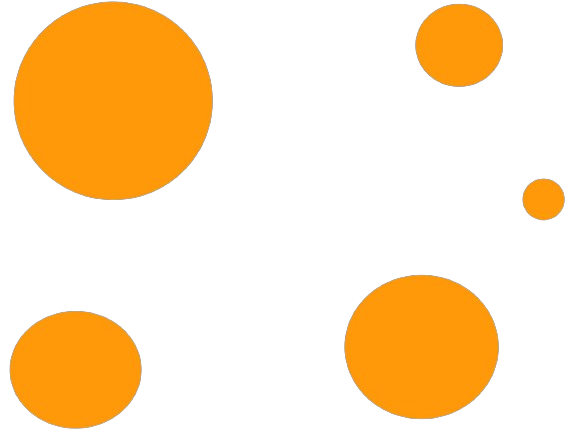
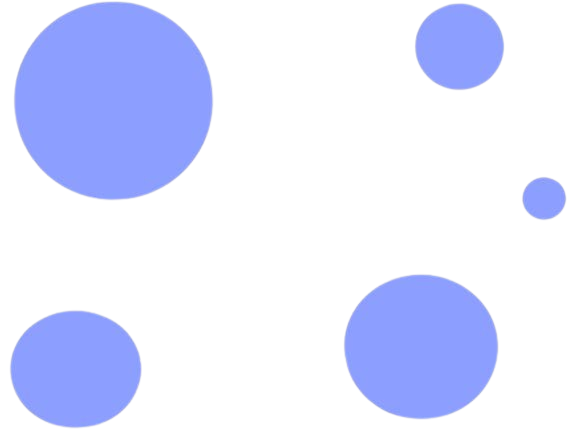
a

diff --git a/src/app/home/sobre/sobre.component.html b/src/app/home/sobre/sobre.component.html
@@ -16,7 +16,7 @@
 </section>
 
 <!-- cargos do Instituto -->
-<section class="bg-primary bg-gradient bg-opacity-25">
+<section class="cor-fundo">
     <div class="container d-flex flex-column position-relative mb-3 pb-4">
         <article class="mt-5 row">
             <div class="col-lg-5">
@@ -30,7 +30,7 @@
                 </div> -->
                 <!-- Coloquei a imagem do círculo dentro de um contêiner flexível para centralização -->
                 <h1 class="pt-5 mt-4">Acreditar Sempre!!!!</h1>
-                <p class="pt-4 text-warning">
+                <p class="pt-4 ">
                     Sales Rodrigues, também conhecido como Pastor Sales, é o visionário fundador de uma das maiores organizações de solidariedade em Novo Gama. Sua nobre iniciativa teve início em 2009 por meio do "Movimento Crack é Possível Vencer com Jesus", dedicado incansavelmente ao combate ao uso abusivo de drogas ilícitas. Esse movimento inspirador culminou na criação do Instituto REFAM, oficialmente registrado em 2012.
                     
                     Desde então, o Instituto REFAM tem desempenhado um papel crucial, impactando positivamente inúmeras famílias em toda a região do Entorno e no Distrito Federal. Sua sede, estrategicamente localizada no município de Novo Gama, serve como ponto de partida para uma jornada contínua de transformação social.
@@ -174,9 +174,7 @@
             </div>
 
             <div class="col-lg-6">
-                <div class="position-absolute z-n1 d-flex justify-content-center ms-5">
-                    <img class="img-fluid" src="./assets/img/background/quadradinhos.png" width="550" height="550" alt="">
-                </div>
+
                 <app-buttons class=""></app-buttons>
             </div>
     

diff --git a/src/app/header/header.component.html b/src/app/header/header.component.html
@@ -1,7 +1,7 @@
 <nav class="navbar navbar-expand-lg" [ngClass]="{'fixed-top': navbarScrolled, 'bg-transparent': !navbarScrolled, 'navbar-scrolled': navbarScrolled}">
     <div class="container-fluid">
         <div class="col-md-5">
-            <a class="navbar-brand text-light" href="#">
+            <a class="navbar-brand borda-logo" href="#">
                 <img src="favicon.ico" alt="Logo" width="30" height="24" class="d-inline-block align-text-top">
                 Projeto REFAM
             </a>
@@ -11,17 +11,17 @@
         </div>
         <div class="collapse navbar-collapse" id="navbarNav">
             <ul class="navbar-nav">
-                <li class="nav-item link">
-                    <a class="nav-link active text-light" aria-current="page" href="#">Sobre</a>
+                <li class="nav-item link cor-text">
+                    <a class="nav-link active " aria-current="page" href="#">Sobre</a>
                 </li>
                 <li class="nav-item link">
-                    <a class="nav-link text-light px-4" href="#cursos">Cursos</a>
+                    <a class="nav-link px-4" href="#cursos">Cursos</a>
                 </li>
                 <li class="nav-item link">
-                    <a class="nav-link text-light" href="#contatos">Contatos</a>
+                    <a class="nav-link" href="#contatos">Contatos</a>
                 </li>
                 <li class="nav-item link">
-                    <a class="nav-link disabled text-light px-4" aria-disabled="true">Disabled</a>
+                    <a class="nav-link disabled px-4 cor-text" aria-disabled="true">Disabled</a>
                 </li>
             </ul>
         </div>

diff --git a/src/app/home/sobre/sobre.component.css b/src/app/home/sobre/sobre.component.css
@@ -9,7 +9,7 @@ div, figure {
     border-radius: 110px 250px 180px 250px;
     transform-origin: center center;
     transition: transform 0.8s ease, border-radius 0.7s ease, box-shadow 4s ease; /* Transições separadas para transform, border-radius e box-shadow */
-    box-shadow: rgba(255, 84, 252, 0.583) 5px 5px 40px 5px;
+    box-shadow: rgba(84, 112, 255, 0.583) 5px 5px 40px 5px;
 }
 
 #efeito-imagem:hover, #efeito-imagem:focus {
@@ -65,8 +65,8 @@ p {
     font-family: 'Roboto', sans-serif;
     font-weight: 500;
     font-style: italic;
-    color: rgb(255, 255, 255);
-    text-shadow: black 0.1em 0.1em 0.2em
+    color: #444444;
+    text-shadow: rgba(0, 0, 0, 0) 0.1em 0.1em 0.2em
 }
 
 .fonte-texto {
@@ -121,4 +121,8 @@ p {
     100% {
         border-radius: 60% 40% 40% 60% / 60% 40% 60% 40%;
     }
+}
+
+.cor-fundo {
+    background: linear-gradient(90deg, rgba(231, 231, 231, 0.802), rgba(207, 223, 253, 0.802),  rgba(231, 231, 231, 0.802)) !important;
 }

diff --git a/src/app/header/header.component.css b/src/app/header/header.component.css
@@ -3,11 +3,13 @@
   }
 
   .navbar-scrolled {
-    background: linear-gradient(90deg, rgba(76, 151, 198, 0.804), rgba(82, 82, 255, 0.804)) !important;
+    background: linear-gradient(90deg, rgba(216, 239, 255, 0.689), rgba(255, 255, 255, 0.845), rgba(255, 255, 255, 0.845)) !important;
+    /* background: linear-gradient(90deg, rgba(76, 151, 198, 0.804), rgba(82, 82, 255, 0.804)) !important; */
   }
 
-  li, a {
-    text-shadow: rgba(0, 0, 0, 0.889) 0.1em 0.1em 0.2em
+  li, a, .cor-text {
+    color: #20c0ff !important;
+    /* text-shadow: rgba(153, 153, 153, 0.318) 0.1em 0.1em 0.2em */
   }
 
 
@@ -27,7 +29,7 @@
     position: absolute;
     width: 0;
     height: 2px;
-    background-color: #ffffff; /* Cor da linha */
+    background-color: #20c0ff; /* Cor da linha */
     transition: all 0.6s ease-in-out;
   }
   

diff --git a/src/styles.css b/src/styles.css
@@ -7,8 +7,8 @@ html {
 body {
     min-height: 100%;
     display: grid;
-    /* background-color: aliceblue; */
-    background: linear-gradient(90deg, rgb(131, 159, 250), rgb(131, 210, 250));
+    background-color: rgb(255, 255, 255);
+    /* background: linear-gradient(90deg, rgb(131, 159, 250), rgb(131, 210, 250)); */
     grid-template-rows: 1fr auto; 
 }
 
@@ -16,6 +16,6 @@ p {
     font-family: 'Roboto', sans-serif;
     font-weight: 500;
     font-style: italic;
-    color: rgb(255, 255, 255);
-    text-shadow: black 0.1em 0.1em 0.2em
+    color: rgb(0, 0, 0);
+    /* text-shadow: black 0.1em 0.1em 0.2em */
 }

diff --git a/src/app/buttons/buttons.component.html b/src/app/buttons/buttons.component.html
@@ -1,6 +1,9 @@
 <div class="container">
     <div class="center">
       <button class="btn">
+        <div class="position-absolute z-n1 d-flex justify-content-center">
+          <img class="img-fluid setas-img" src="./assets/img/background/setinhas.png" width="500" height="500" alt="">
+      </div>
         <svg width="180px" height="60px" viewBox="0 0 180 60" class="border">
           <polyline points="179,1 179,59 1,59 1,1 179,1" class="bg-line" />
           <polyline points="179,1 179,59 1,59 1,1 179,1" class="hl-line" />

diff --git a/src/app/buttons/buttons.component.css b/src/app/buttons/buttons.component.css
@@ -56,3 +56,14 @@ svg {
   font-size: 18px;
   font-weight: 100;
 }
+
+.setas-img {
+  width: 100%;
+  height: auto;
+  filter: brightness(1) hue-rotate(0deg); /* Define a cor inicial da imagem (branca) */
+  transition: filter 0.3s ease-in-out;
+}
+
+.btn:hover .setas-img {
+  filter: brightness(1) hue-rotate(90deg); /* Ajuste a rotação para obter a cor verde desejada ao passar o mouse */
+}
